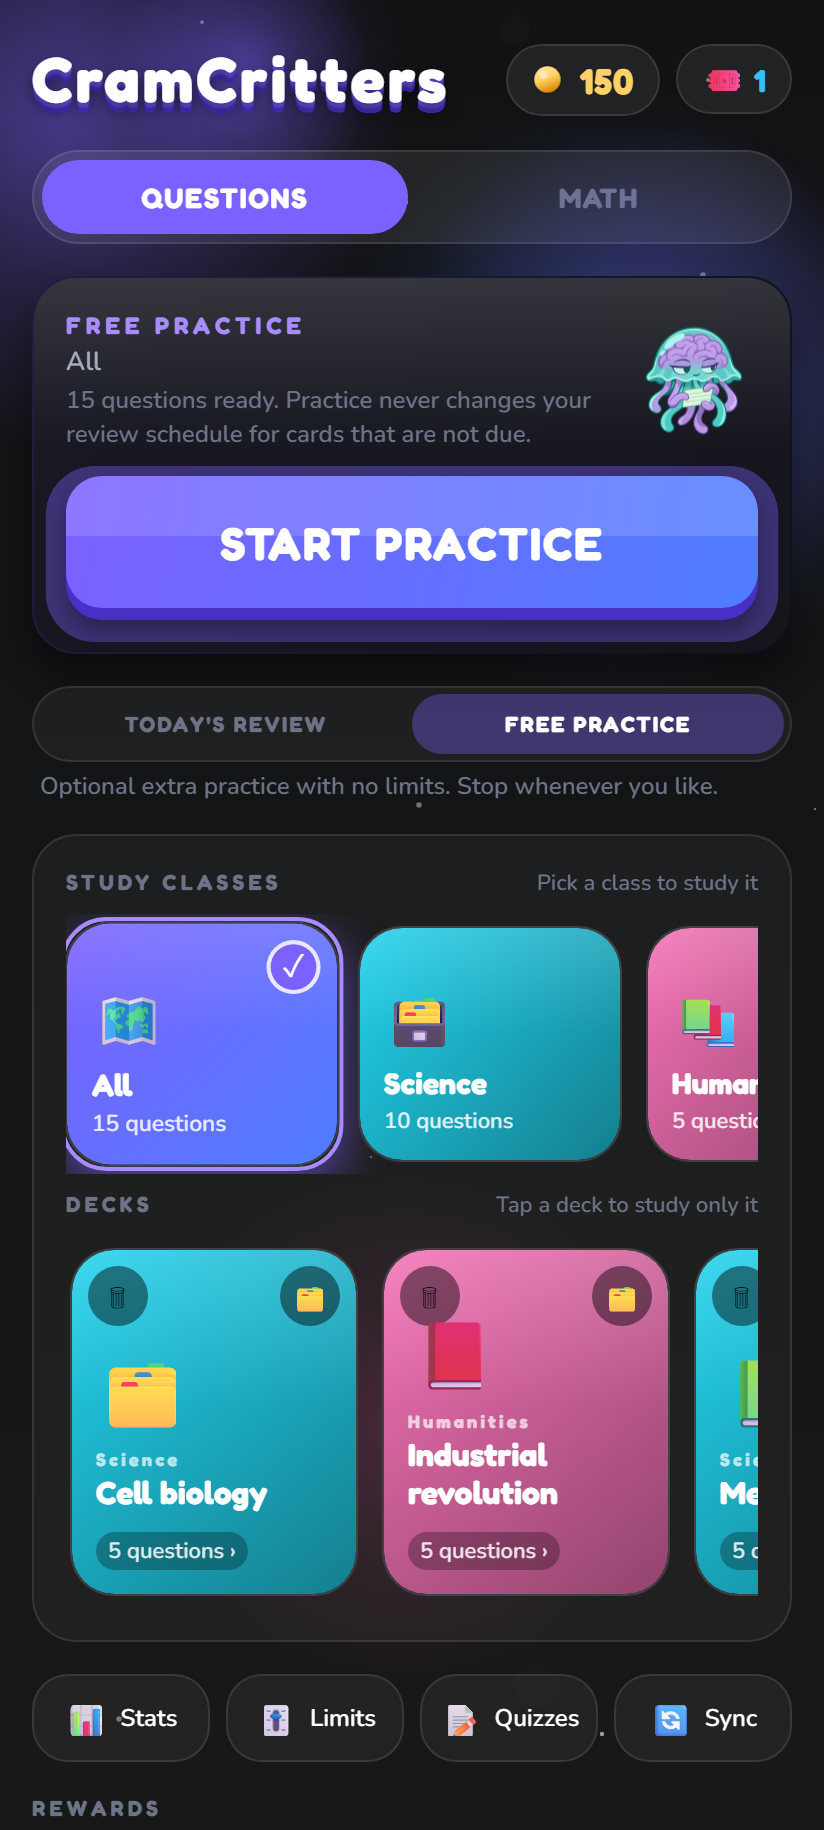
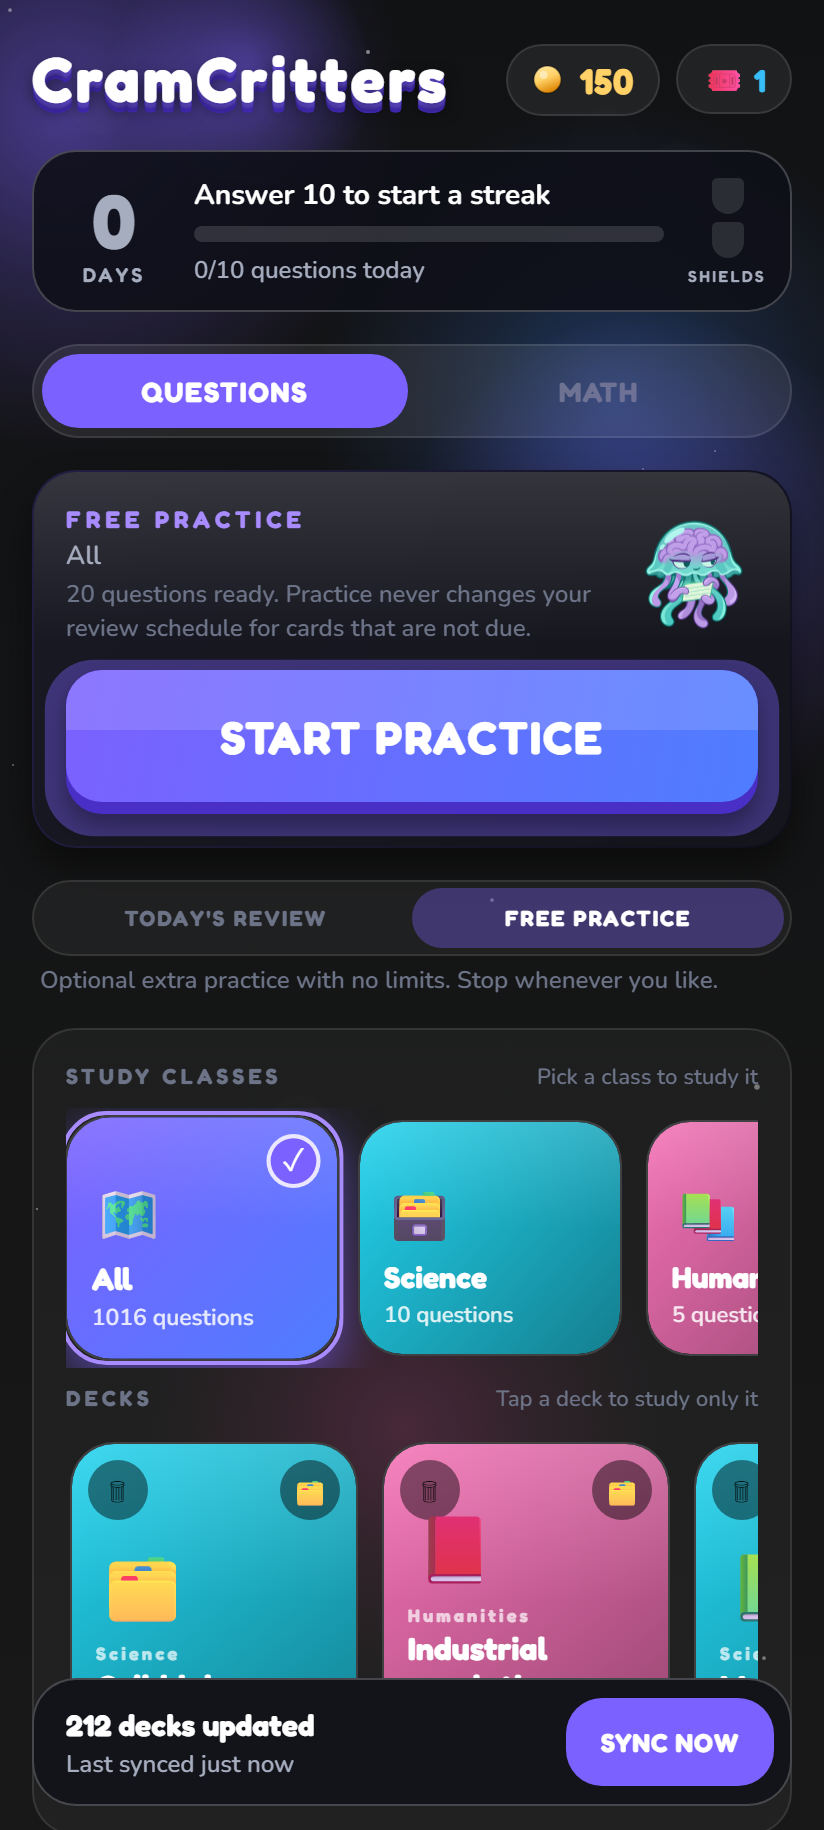
feat(home): daily streak card with goal bar and shields

diff --git a/apps/mobile/src/study/StreakCard.tsx b/apps/mobile/src/study/StreakCard.tsx
@@ -1,0 +1,191 @@
+import {
+  DAILY_GOAL_QUESTIONS,
+  localDay,
+  settleMissedDays,
+  type StreakState,
+} from '@study-app/core';
+import { useEffect, useState } from 'react';
+import { StyleSheet, Text, View } from 'react-native';
+
+import { refreshReminderContent } from '@/notifications';
+import { colors, fonts, radius, spacing } from '@/theme';
+
+import { readStreak, subscribeStreak } from './streak';
+
+/**
+ * The daily streak card of the home screen.
+ *
+ * A big number (the days in a row), a bar for today's goal and the shields
+ * that cover a missed day. It also keeps the scheduled reminders in step with
+ * the streak (the evening nudge is skipped once today's goal is done).
+ */
+export function StreakCard() {
+  const [state, setState] = useState<StreakState | null>(null);
+
+  useEffect(() => {
+    let live = true;
+    void readStreak().then((loaded) => {
+      if (live) {
+        setState(loaded);
+      }
+    });
+    const stop = subscribeStreak((next) => {
+      if (live) {
+        setState(next);
+      }
+    });
+    return () => {
+      live = false;
+      stop();
+    };
+  }, []);
+
+  const view = state === null ? null : settleMissedDays(state, localDay(new Date()));
+
+  useEffect(() => {
+    if (view === null) {
+      return;
+    }
+    void refreshReminderContent({
+      streak: view.current,
+      goalDoneToday: view.goalDone,
+      remaining: view.remaining,
+    });
+  }, [view?.current, view?.goalDone, view?.remaining]);
+
+  if (view === null) {
+    return null;
+  }
+
+  const done = DAILY_GOAL_QUESTIONS - view.remaining;
+  const ratio = Math.min(1, done / DAILY_GOAL_QUESTIONS);
+
+  const headline = view.goalDone
+    ? 'Goal done for today'
+    : view.current > 0
+      ? `${view.remaining} more keeps day ${view.current + 1}`
+      : `Answer ${view.remaining} to start a streak`;
+
+  return (
+    <View
+      style={[styles.card, view.goalDone ? styles.cardDone : null]}
+      accessible
+      accessibilityLabel={`${view.current} day streak. ${done} of ${DAILY_GOAL_QUESTIONS} questions today. ${view.freezes} shields.`}
+      testID="streak-card"
+    >
+      <View style={styles.count}>
+        <Text style={[styles.number, view.current === 0 ? styles.numberIdle : null]}>
+          {view.current}
+        </Text>
+        <Text style={styles.unit}>{view.current === 1 ? 'DAY' : 'DAYS'}</Text>
+      </View>
+
+      <View style={styles.middle}>
+        <Text style={styles.headline} numberOfLines={1}>
+          {headline}
+        </Text>
+        <View style={styles.track}>
+          <View style={[styles.fill, { width: `${Math.round(ratio * 100)}%` }]} />
+        </View>
+        <Text style={styles.sub}>
+          {done}/{DAILY_GOAL_QUESTIONS} questions today
+          {state !== null && state.best > view.current ? ` · best ${state.best}` : ''}
+        </Text>
+      </View>
+
+      <View style={styles.shields} accessibilityLabel={`${view.freezes} of 2 shields`}>
+        {[0, 1].map((index) => (
+          <View
+            key={index}
+            style={[styles.shield, index < view.freezes ? styles.shieldOn : styles.shieldOff]}
+          />
+        ))}
+        <Text style={styles.shieldLabel}>SHIELDS</Text>
+      </View>
+    </View>
+  );
+}
+
+const styles = StyleSheet.create({
+  card: {
+    flexDirection: 'row',
+    alignItems: 'center',
+    gap: spacing.md,
+    padding: spacing.md,
+    borderRadius: radius.card,
+    borderWidth: 1.5,
+    borderColor: colors.borderStrong,
+    backgroundColor: 'rgba(14, 16, 24, 0.9)',
+  },
+  cardDone: {
+    borderColor: 'rgba(251, 191, 36, 0.55)',
+  },
+  count: {
+    alignItems: 'center',
+    minWidth: 56,
+  },
+  number: {
+    color: colors.gold,
+    fontFamily: fonts.title,
+    fontSize: 38,
+    lineHeight: 42,
+  },
+  numberIdle: {
+    color: colors.textMuted,
+  },
+  unit: {
+    color: colors.textMuted,
+    fontFamily: fonts.titleSemi,
+    fontSize: 10,
+    letterSpacing: 1.6,
+  },
+  middle: {
+    flex: 1,
+    gap: 6,
+  },
+  headline: {
+    color: colors.text,
+    fontFamily: fonts.bodyBold,
+    fontSize: 14,
+  },
+  track: {
+    height: 8,
+    borderRadius: 4,
+    overflow: 'hidden',
+    backgroundColor: 'rgba(248, 250, 252, 0.14)',
+  },
+  fill: {
+    height: '100%',
+    borderRadius: 4,
+    backgroundColor: colors.gold,
+  },
+  sub: {
+    color: colors.textMuted,
+    fontFamily: fonts.bodySemi,
+    fontSize: 12,
+  },
+  shields: {
+    alignItems: 'center',
+    gap: 4,
+  },
+  shield: {
+    width: 16,
+    height: 18,
+    borderTopLeftRadius: 3,
+    borderTopRightRadius: 3,
+    borderBottomLeftRadius: 9,
+    borderBottomRightRadius: 9,
+  },
+  shieldOn: {
+    backgroundColor: '#38bdf8',
+  },
+  shieldOff: {
+    backgroundColor: 'rgba(255,255,255,0.12)',
+  },
+  shieldLabel: {
+    color: colors.textMuted,
+    fontFamily: fonts.titleSemi,
+    fontSize: 8,
+    letterSpacing: 1.2,
+  },
+});

diff --git a/apps/mobile/app/index.tsx b/apps/mobile/app/index.tsx
@@ -63,6 +63,7 @@ import {
   type DeckCard,
 } from '@/study/decks';
 import { DeckPicker } from '@/study/DeckPicker';
+import { StreakCard } from '@/study/StreakCard';
 import { DAILY_DONE_KEY, DAILY_DONE_MATH_KEY, readStudyOptions } from '@/study/studyOptions';
 import { CreateClassSheet, EditClassSheet, MoveDeckSheet } from '@/study/ClassSheets';
 import {
@@ -624,6 +625,8 @@ export default function HomeScreen() {
               ) : null}
             </View>
           </View>
+
+          <StreakCard />
 
           <SectionTabs track={track} mathCount={mathCount} onChange={setTrack} />
 
